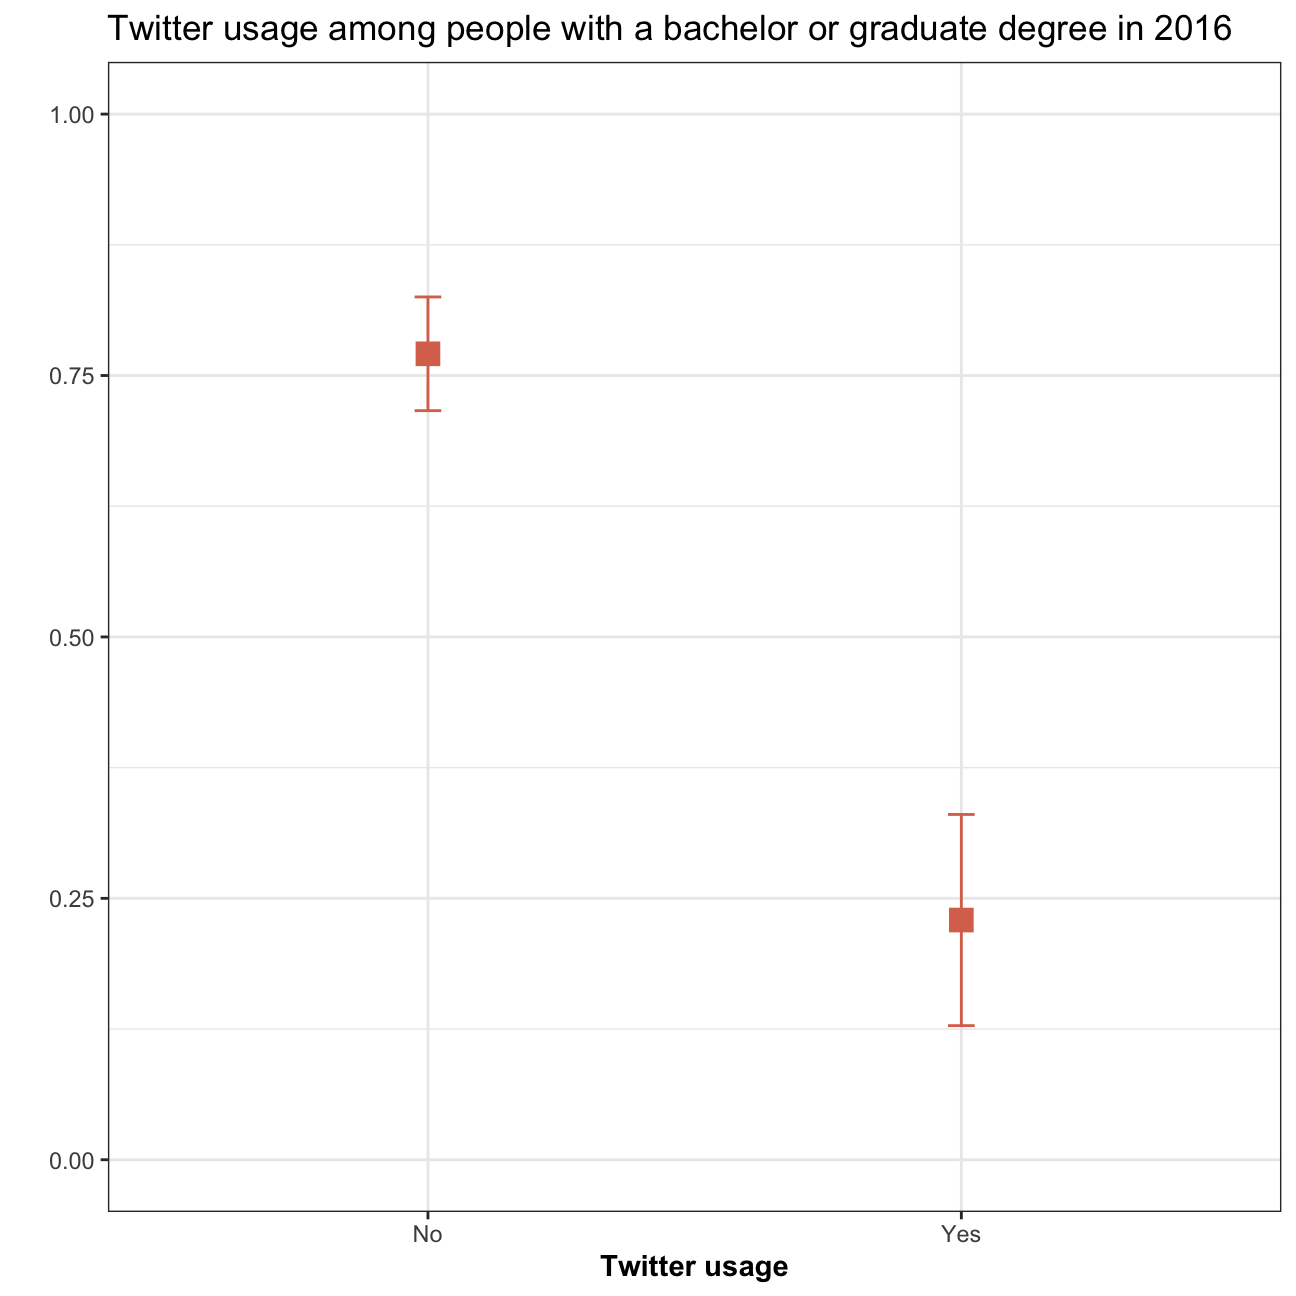
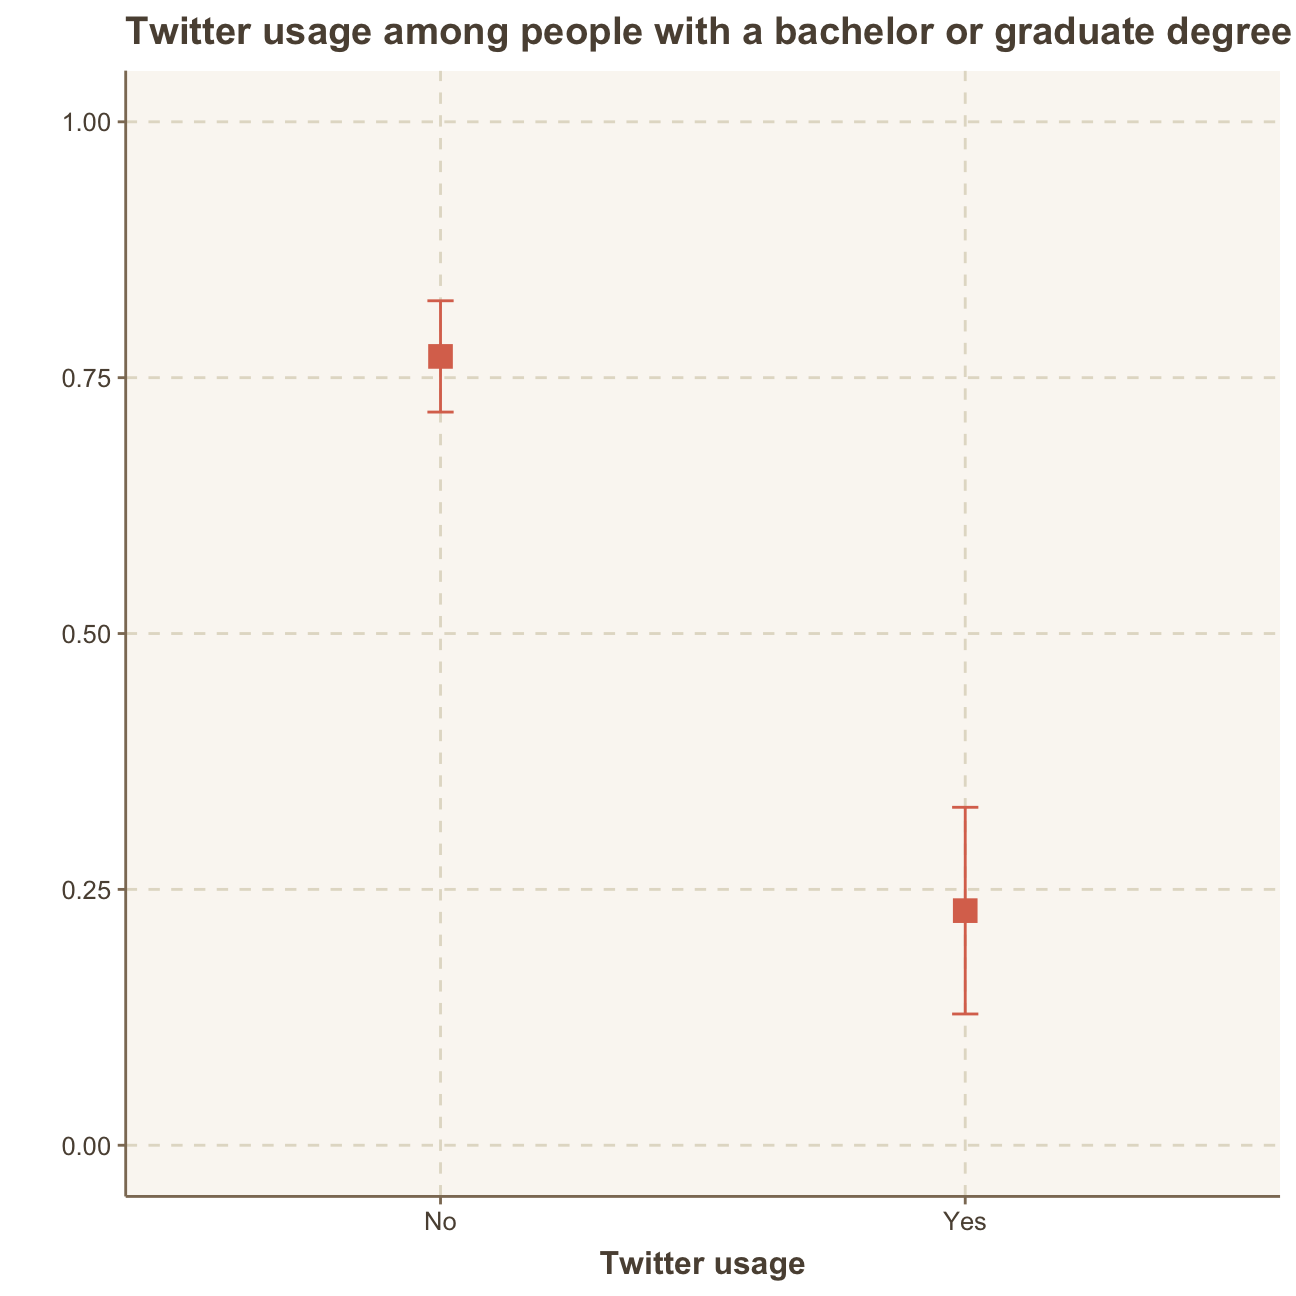
rearrange tiles

diff --git a/public/blogs/socialmedia/index.html b/public/blogs/socialmedia/index.html
@@ -86,6 +86,7 @@
 <div id="social-media" class="section level1">
 <h1>SOCIAL MEDIA</h1>
 <p>The <a href="http://www.gss.norc.org/">General Social Survey (GSS)</a> gathers data on American society in order to monitor and explain trends in attitudes, behaviours, and attributes. Many trends have been tracked for decades, so one can see the evolution of attitudes, etc in American Society.</p>
+<p>In the following, I will look into the users of different social medias in the US.</p>
 <div id="instagram-and-snapchat-by-sex" class="section level2">
 <h2>Instagram and Snapchat, by sex</h2>
 <p>Can we estimate the <em>population</em> proportion of Snapchat or Instagram users in 2016?</p>
@@ -137,7 +138,6 @@ histogram_si &lt;- ggplot(snap_insta_formula_ci,
    geom_point(shape = 15,
               size  = 4) +
    scale_y_continuous(limits=c(0,1)) +
-   theme_bw() +
    theme(axis.title   = element_text(face  = &quot;bold&quot;)) +
    labs(x = &quot;Gender&quot;,
      y = &quot;&quot;,
@@ -210,7 +210,6 @@ barchart_t &lt;- ggplot(twitter_formula_ci,
    geom_point(shape = 15,
               size  = 4) +
    scale_y_continuous(limits=c(0,1)) +
-   theme_bw() +
    theme(axis.title = element_text(face  = &quot;bold&quot;)) +
    labs(x = &quot;Twitter usage&quot;,
         y = &quot;&quot;,
@@ -223,24 +222,13 @@ barchart_t</code></pre>
 </div>
 <div id="email-usage" class="section level2">
 <h2>Email usage</h2>
-<p>Can we estimate the <em>population</em> parameter on time spent on email weekly?</p>
-<ol start="2" style="list-style-type: decimal">
-<li>Visualise the distribution of this new variable. Find the mean and the median number of minutes respondents spend on email weekly. Is the mean or the median a better measure of the typical among of time Americans spend on email weekly? Why?</li>
-</ol>
-<p>Answer: The median is a better measure than the mean for the typical amount of time Americans spend on email weekly since the mean is more sensitive to outliers than the median.</p>
-<ol start="3" style="list-style-type: decimal">
-<li>Using the <code>infer</code> package, calculate a 95% bootstrap confidence interval for the mean amount of time Americans spend on email weekly. Interpret this interval in context of the data, reporting its endpoints in “humanized” units (e.g. instead of 108 minutes, report 1 hr and 8 minutes). If you get a result that seems a bit odd, discuss why you think this might be the case.</li>
-</ol>
-<p>Answer: The confidence interval and the mean are quite high because, as mentioned above, the mean is very sensitive to the outlier in the data set. Thus, the values are higher than one might probably expect.</p>
-<ol start="4" style="list-style-type: decimal">
-<li>Would you expect a 99% confidence interval to be wider or narrower than the interval you calculated above? Explain your reasoning.</li>
-</ol>
-<p>Answer: A 99% confidence interval would be wider than a 95% confidence interval since you have to be more confident that the true value (in the case email minutes) falls within the interval we will need to allow more potential values within the interval. The confidence level most commonly adopted is 95%.</p>
+<p>Can we estimate the population parameter on time spent on email weekly?</p>
 <pre class="r"><code># create new variable email
 gss_email &lt;- gss %&gt;% 
   filter(emailmin != &quot;NA&quot;, emailhr != &quot;NA&quot;) %&gt;%
   mutate(emailmin = as.numeric(emailmin), emailhr = as.numeric(emailhr)) %&gt;%
   mutate(email = emailhr*60 + emailmin)
+
 # visualise the distribution
 plot_email &lt;- ggplot(gss_email, 
   aes(x = email)) + 
@@ -258,6 +246,7 @@ plot_email &lt;- ggplot(gss_email,
     x = &quot;Minutes spent on emails per week&quot;,
     y = &quot; &quot;) +
   NULL
+
 plot_email</code></pre>
 <p><img src="/blogs/socialmedia_files/figure-html/unnamed-chunk-3-1.png" width="648" style="display: block; margin: auto;" /></p>
 <pre class="r"><code># calculate a 95% bootstrap confidence interval for the mean
@@ -285,6 +274,7 @@ boot_email</code></pre>
 percentile_ci &lt;- boot_email %&gt;%
   get_confidence_interval(level = 0.95, type = &quot;percentile&quot;) %&gt;%
   mutate(lower_ci_hum = lower_ci %/% 60 + (lower_ci %% 60)/100, upper_ci_hum = upper_ci %/% 60 + (upper_ci %% 60)/100)
+
 percentile_ci</code></pre>
 <pre><code>## # A tibble: 1 x 4
 ##   lower_ci upper_ci lower_ci_hum upper_ci_hum
@@ -316,7 +306,7 @@ percentile_ci</code></pre>
                 
                     <li><a href="https://www.github.com/josephineaudrey" class="icon alt fa-github" target="_blank"><span class="label">GitHub</span></a></li>
                 
-                    <li><a href="https://www.linkedin.com/josephinehaag" class="icon alt fa-linkedin" target="_blank"><span class="label">LinkedIn</span></a></li>
+                    <li><a href="https://www.linkedin.com/in/josephinehaag" class="icon alt fa-linkedin" target="_blank"><span class="label">LinkedIn</span></a></li>
                 
             </ul>
             <ul class="copyright">

diff --git a/content/blogs/socialmedia.html b/content/blogs/socialmedia.html
@@ -1,7 +1,7 @@
 ---
 title: 'Social Media'
 author: "Josephine Haag"
-date: "2020-09-18"
+date: "2020-09-20"
 output:
   html_document:
     code_folding: show
@@ -19,6 +19,7 @@ output:
 <div id="social-media" class="section level1">
 <h1>SOCIAL MEDIA</h1>
 <p>The <a href="http://www.gss.norc.org/">General Social Survey (GSS)</a> gathers data on American society in order to monitor and explain trends in attitudes, behaviours, and attributes. Many trends have been tracked for decades, so one can see the evolution of attitudes, etc in American Society.</p>
+<p>In the following, I will look into the users of different social medias in the US.</p>
 <div id="instagram-and-snapchat-by-sex" class="section level2">
 <h2>Instagram and Snapchat, by sex</h2>
 <p>Can we estimate the <em>population</em> proportion of Snapchat or Instagram users in 2016?</p>
@@ -70,7 +71,6 @@ histogram_si &lt;- ggplot(snap_insta_formula_ci,
    geom_point(shape = 15,
               size  = 4) +
    scale_y_continuous(limits=c(0,1)) +
-   theme_bw() +
    theme(axis.title   = element_text(face  = &quot;bold&quot;)) +
    labs(x = &quot;Gender&quot;,
      y = &quot;&quot;,
@@ -143,7 +143,6 @@ barchart_t &lt;- ggplot(twitter_formula_ci,
    geom_point(shape = 15,
               size  = 4) +
    scale_y_continuous(limits=c(0,1)) +
-   theme_bw() +
    theme(axis.title = element_text(face  = &quot;bold&quot;)) +
    labs(x = &quot;Twitter usage&quot;,
         y = &quot;&quot;,
@@ -156,24 +155,13 @@ barchart_t</code></pre>
 </div>
 <div id="email-usage" class="section level2">
 <h2>Email usage</h2>
-<p>Can we estimate the <em>population</em> parameter on time spent on email weekly?</p>
-<ol start="2" style="list-style-type: decimal">
-<li>Visualise the distribution of this new variable. Find the mean and the median number of minutes respondents spend on email weekly. Is the mean or the median a better measure of the typical among of time Americans spend on email weekly? Why?</li>
-</ol>
-<p>Answer: The median is a better measure than the mean for the typical amount of time Americans spend on email weekly since the mean is more sensitive to outliers than the median.</p>
-<ol start="3" style="list-style-type: decimal">
-<li>Using the <code>infer</code> package, calculate a 95% bootstrap confidence interval for the mean amount of time Americans spend on email weekly. Interpret this interval in context of the data, reporting its endpoints in “humanized” units (e.g. instead of 108 minutes, report 1 hr and 8 minutes). If you get a result that seems a bit odd, discuss why you think this might be the case.</li>
-</ol>
-<p>Answer: The confidence interval and the mean are quite high because, as mentioned above, the mean is very sensitive to the outlier in the data set. Thus, the values are higher than one might probably expect.</p>
-<ol start="4" style="list-style-type: decimal">
-<li>Would you expect a 99% confidence interval to be wider or narrower than the interval you calculated above? Explain your reasoning.</li>
-</ol>
-<p>Answer: A 99% confidence interval would be wider than a 95% confidence interval since you have to be more confident that the true value (in the case email minutes) falls within the interval we will need to allow more potential values within the interval. The confidence level most commonly adopted is 95%.</p>
+<p>Can we estimate the population parameter on time spent on email weekly?</p>
 <pre class="r"><code># create new variable email
 gss_email &lt;- gss %&gt;% 
   filter(emailmin != &quot;NA&quot;, emailhr != &quot;NA&quot;) %&gt;%
   mutate(emailmin = as.numeric(emailmin), emailhr = as.numeric(emailhr)) %&gt;%
   mutate(email = emailhr*60 + emailmin)
+
 # visualise the distribution
 plot_email &lt;- ggplot(gss_email, 
   aes(x = email)) + 
@@ -191,6 +179,7 @@ plot_email &lt;- ggplot(gss_email,
     x = &quot;Minutes spent on emails per week&quot;,
     y = &quot; &quot;) +
   NULL
+
 plot_email</code></pre>
 <p><img src="/blogs/socialmedia_files/figure-html/unnamed-chunk-3-1.png" width="648" style="display: block; margin: auto;" /></p>
 <pre class="r"><code># calculate a 95% bootstrap confidence interval for the mean
@@ -218,6 +207,7 @@ boot_email</code></pre>
 percentile_ci &lt;- boot_email %&gt;%
   get_confidence_interval(level = 0.95, type = &quot;percentile&quot;) %&gt;%
   mutate(lower_ci_hum = lower_ci %/% 60 + (lower_ci %% 60)/100, upper_ci_hum = upper_ci %/% 60 + (upper_ci %% 60)/100)
+
 percentile_ci</code></pre>
 <pre><code>## # A tibble: 1 x 4
 ##   lower_ci upper_ci lower_ci_hum upper_ci_hum

diff --git a/public/blogs/index.html b/public/blogs/index.html
@@ -127,23 +127,6 @@
                     </section>
                     
                     <section>
-                        <a href="/blogs/omega/" class="image">
-							<img src="/img/blogs/" alt="" data-position="center center" />
-						</a>
-                        <div class="content">
-                            <div class="inner">
-                                <header class="major">
-                                    <h3>Pay discriminaton</h3>
-                                </header>
-                                <p></p>
-                                <ul class="actions">
-                                    <li><a href="/blogs/omega/" class="button">Learn more</a></li>
-                                </ul>
-                            </div>
-                        </div>
-                    </section>
-                    
-                    <section>
                         <a href="/blogs/socialmedia/" class="image">
 							<img src="/img/blogs/" alt="" data-position="center center" />
 						</a>
@@ -155,6 +138,23 @@
                                 <p></p>
                                 <ul class="actions">
                                     <li><a href="/blogs/socialmedia/" class="button">Learn more</a></li>
+                                </ul>
+                            </div>
+                        </div>
+                    </section>
+                    
+                    <section>
+                        <a href="/blogs/omega/" class="image">
+							<img src="/img/blogs/" alt="" data-position="center center" />
+						</a>
+                        <div class="content">
+                            <div class="inner">
+                                <header class="major">
+                                    <h3>Pay discriminaton</h3>
+                                </header>
+                                <p></p>
+                                <ul class="actions">
+                                    <li><a href="/blogs/omega/" class="button">Learn more</a></li>
                                 </ul>
                             </div>
                         </div>
@@ -263,7 +263,7 @@
                 
                     <li><a href="https://www.github.com/josephineaudrey" class="icon alt fa-github" target="_blank"><span class="label">GitHub</span></a></li>
                 
-                    <li><a href="https://www.linkedin.com/josephinehaag" class="icon alt fa-linkedin" target="_blank"><span class="label">LinkedIn</span></a></li>
+                    <li><a href="https://www.linkedin.com/in/josephinehaag" class="icon alt fa-linkedin" target="_blank"><span class="label">LinkedIn</span></a></li>
                 
             </ul>
             <ul class="copyright">

diff --git a/public/index.html b/public/index.html
@@ -94,11 +94,11 @@
         
         <article>
             <span class="image">
-                <img src="img/pay.jpg" alt="" />
+                <img src="img/socialmedia.jpg" alt="" />
             </span>
             <header class="major">
-                <h3><a href="/blogs/omega" class="link">Gender pay gap</a></h3>
-                <p>Is pay discrimination real?</p>
+                <h3><a href="/blogs/socialmedia" class="link">The social media trap</a></h3>
+                <p>Who uses social media these days?</p>
             </header>
         </article>
         
@@ -118,17 +118,17 @@
             </span>
             <header class="major">
                 <h3><a href="/blogs/employees" class="link">Your people matter</a></h3>
-                <p>How happy are your employees really?</p>
+                <p>How satisfied are your employees really?</p>
             </header>
         </article>
         
         <article>
             <span class="image">
-                <img src="img/socialmedia.jpg" alt="" />
+                <img src="img/pay.jpg" alt="" />
             </span>
             <header class="major">
-                <h3><a href="/blogs/socialmedia" class="link">The social media trap</a></h3>
-                <p>Who uses social media these days?</p>
+                <h3><a href="/blogs/omega" class="link">Gender pay gap</a></h3>
+                <p>Is pay discrimination real?</p>
             </header>
         </article>
         
@@ -221,7 +221,7 @@
                 
                     <li><a href="https://www.github.com/josephineaudrey" class="icon alt fa-github" target="_blank"><span class="label">GitHub</span></a></li>
                 
-                    <li><a href="https://www.linkedin.com/josephinehaag" class="icon alt fa-linkedin" target="_blank"><span class="label">LinkedIn</span></a></li>
+                    <li><a href="https://www.linkedin.com/in/josephinehaag" class="icon alt fa-linkedin" target="_blank"><span class="label">LinkedIn</span></a></li>
                 
             </ul>
             <ul class="copyright">

diff --git a/public/blogs/employees/index.html b/public/blogs/employees/index.html
@@ -425,7 +425,7 @@ In conclusion, it seems that higher incomes relates to higer job satisfaction. T
                 
                     <li><a href="https://www.github.com/josephineaudrey" class="icon alt fa-github" target="_blank"><span class="label">GitHub</span></a></li>
                 
-                    <li><a href="https://www.linkedin.com/josephinehaag" class="icon alt fa-linkedin" target="_blank"><span class="label">LinkedIn</span></a></li>
+                    <li><a href="https://www.linkedin.com/in/josephinehaag" class="icon alt fa-linkedin" target="_blank"><span class="label">LinkedIn</span></a></li>
                 
             </ul>
             <ul class="copyright">

diff --git a/public/blogs/omega/index.html b/public/blogs/omega/index.html
@@ -284,7 +284,7 @@ favstats (experience ~ gender, data=omega)</code></pre>
                 
                     <li><a href="https://www.github.com/josephineaudrey" class="icon alt fa-github" target="_blank"><span class="label">GitHub</span></a></li>
                 
-                    <li><a href="https://www.linkedin.com/josephinehaag" class="icon alt fa-linkedin" target="_blank"><span class="label">LinkedIn</span></a></li>
+                    <li><a href="https://www.linkedin.com/in/josephinehaag" class="icon alt fa-linkedin" target="_blank"><span class="label">LinkedIn</span></a></li>
                 
             </ul>
             <ul class="copyright">

diff --git a/public/blogs/cv/index.html b/public/blogs/cv/index.html
@@ -386,7 +386,7 @@ pagedown::chrome_print(input = tmp_html_cv_loc,
                 
                     <li><a href="https://www.github.com/josephineaudrey" class="icon alt fa-github" target="_blank"><span class="label">GitHub</span></a></li>
                 
-                    <li><a href="https://www.linkedin.com/josephinehaag" class="icon alt fa-linkedin" target="_blank"><span class="label">LinkedIn</span></a></li>
+                    <li><a href="https://www.linkedin.com/in/josephinehaag" class="icon alt fa-linkedin" target="_blank"><span class="label">LinkedIn</span></a></li>
                 
             </ul>
             <ul class="copyright">

diff --git a/public/blogs/alcohol/index.html b/public/blogs/alcohol/index.html
@@ -241,7 +241,7 @@ top25_spirit_plotly</code></pre>
                 
                     <li><a href="https://www.github.com/josephineaudrey" class="icon alt fa-github" target="_blank"><span class="label">GitHub</span></a></li>
                 
-                    <li><a href="https://www.linkedin.com/josephinehaag" class="icon alt fa-linkedin" target="_blank"><span class="label">LinkedIn</span></a></li>
+                    <li><a href="https://www.linkedin.com/in/josephinehaag" class="icon alt fa-linkedin" target="_blank"><span class="label">LinkedIn</span></a></li>
                 
             </ul>
             <ul class="copyright">

diff --git a/public/post/2015-07-23-r-rmarkdown/index.html b/public/post/2015-07-23-r-rmarkdown/index.html
@@ -144,7 +144,7 @@ Figure 1: A fancy pie chart.
                 
                     <li><a href="https://www.github.com/josephineaudrey" class="icon alt fa-github" target="_blank"><span class="label">GitHub</span></a></li>
                 
-                    <li><a href="https://www.linkedin.com/josephinehaag" class="icon alt fa-linkedin" target="_blank"><span class="label">LinkedIn</span></a></li>
+                    <li><a href="https://www.linkedin.com/in/josephinehaag" class="icon alt fa-linkedin" target="_blank"><span class="label">LinkedIn</span></a></li>
                 
             </ul>
             <ul class="copyright">

diff --git a/public/blogs/aliquam/index.html b/public/blogs/aliquam/index.html
@@ -104,7 +104,7 @@
                 
                     <li><a href="https://www.github.com/josephineaudrey" class="icon alt fa-github" target="_blank"><span class="label">GitHub</span></a></li>
                 
-                    <li><a href="https://www.linkedin.com/josephinehaag" class="icon alt fa-linkedin" target="_blank"><span class="label">LinkedIn</span></a></li>
+                    <li><a href="https://www.linkedin.com/in/josephinehaag" class="icon alt fa-linkedin" target="_blank"><span class="label">LinkedIn</span></a></li>
                 
             </ul>
             <ul class="copyright">

diff --git a/public/blogs/ipsum/index.html b/public/blogs/ipsum/index.html
@@ -105,7 +105,7 @@
                 
                     <li><a href="https://www.github.com/josephineaudrey" class="icon alt fa-github" target="_blank"><span class="label">GitHub</span></a></li>
                 
-                    <li><a href="https://www.linkedin.com/josephinehaag" class="icon alt fa-linkedin" target="_blank"><span class="label">LinkedIn</span></a></li>
+                    <li><a href="https://www.linkedin.com/in/josephinehaag" class="icon alt fa-linkedin" target="_blank"><span class="label">LinkedIn</span></a></li>
                 
             </ul>
             <ul class="copyright">

diff --git a/public/blogs/magna/index.html b/public/blogs/magna/index.html
@@ -104,7 +104,7 @@
                 
                     <li><a href="https://www.github.com/josephineaudrey" class="icon alt fa-github" target="_blank"><span class="label">GitHub</span></a></li>
                 
-                    <li><a href="https://www.linkedin.com/josephinehaag" class="icon alt fa-linkedin" target="_blank"><span class="label">LinkedIn</span></a></li>
+                    <li><a href="https://www.linkedin.com/in/josephinehaag" class="icon alt fa-linkedin" target="_blank"><span class="label">LinkedIn</span></a></li>
                 
             </ul>
             <ul class="copyright">
